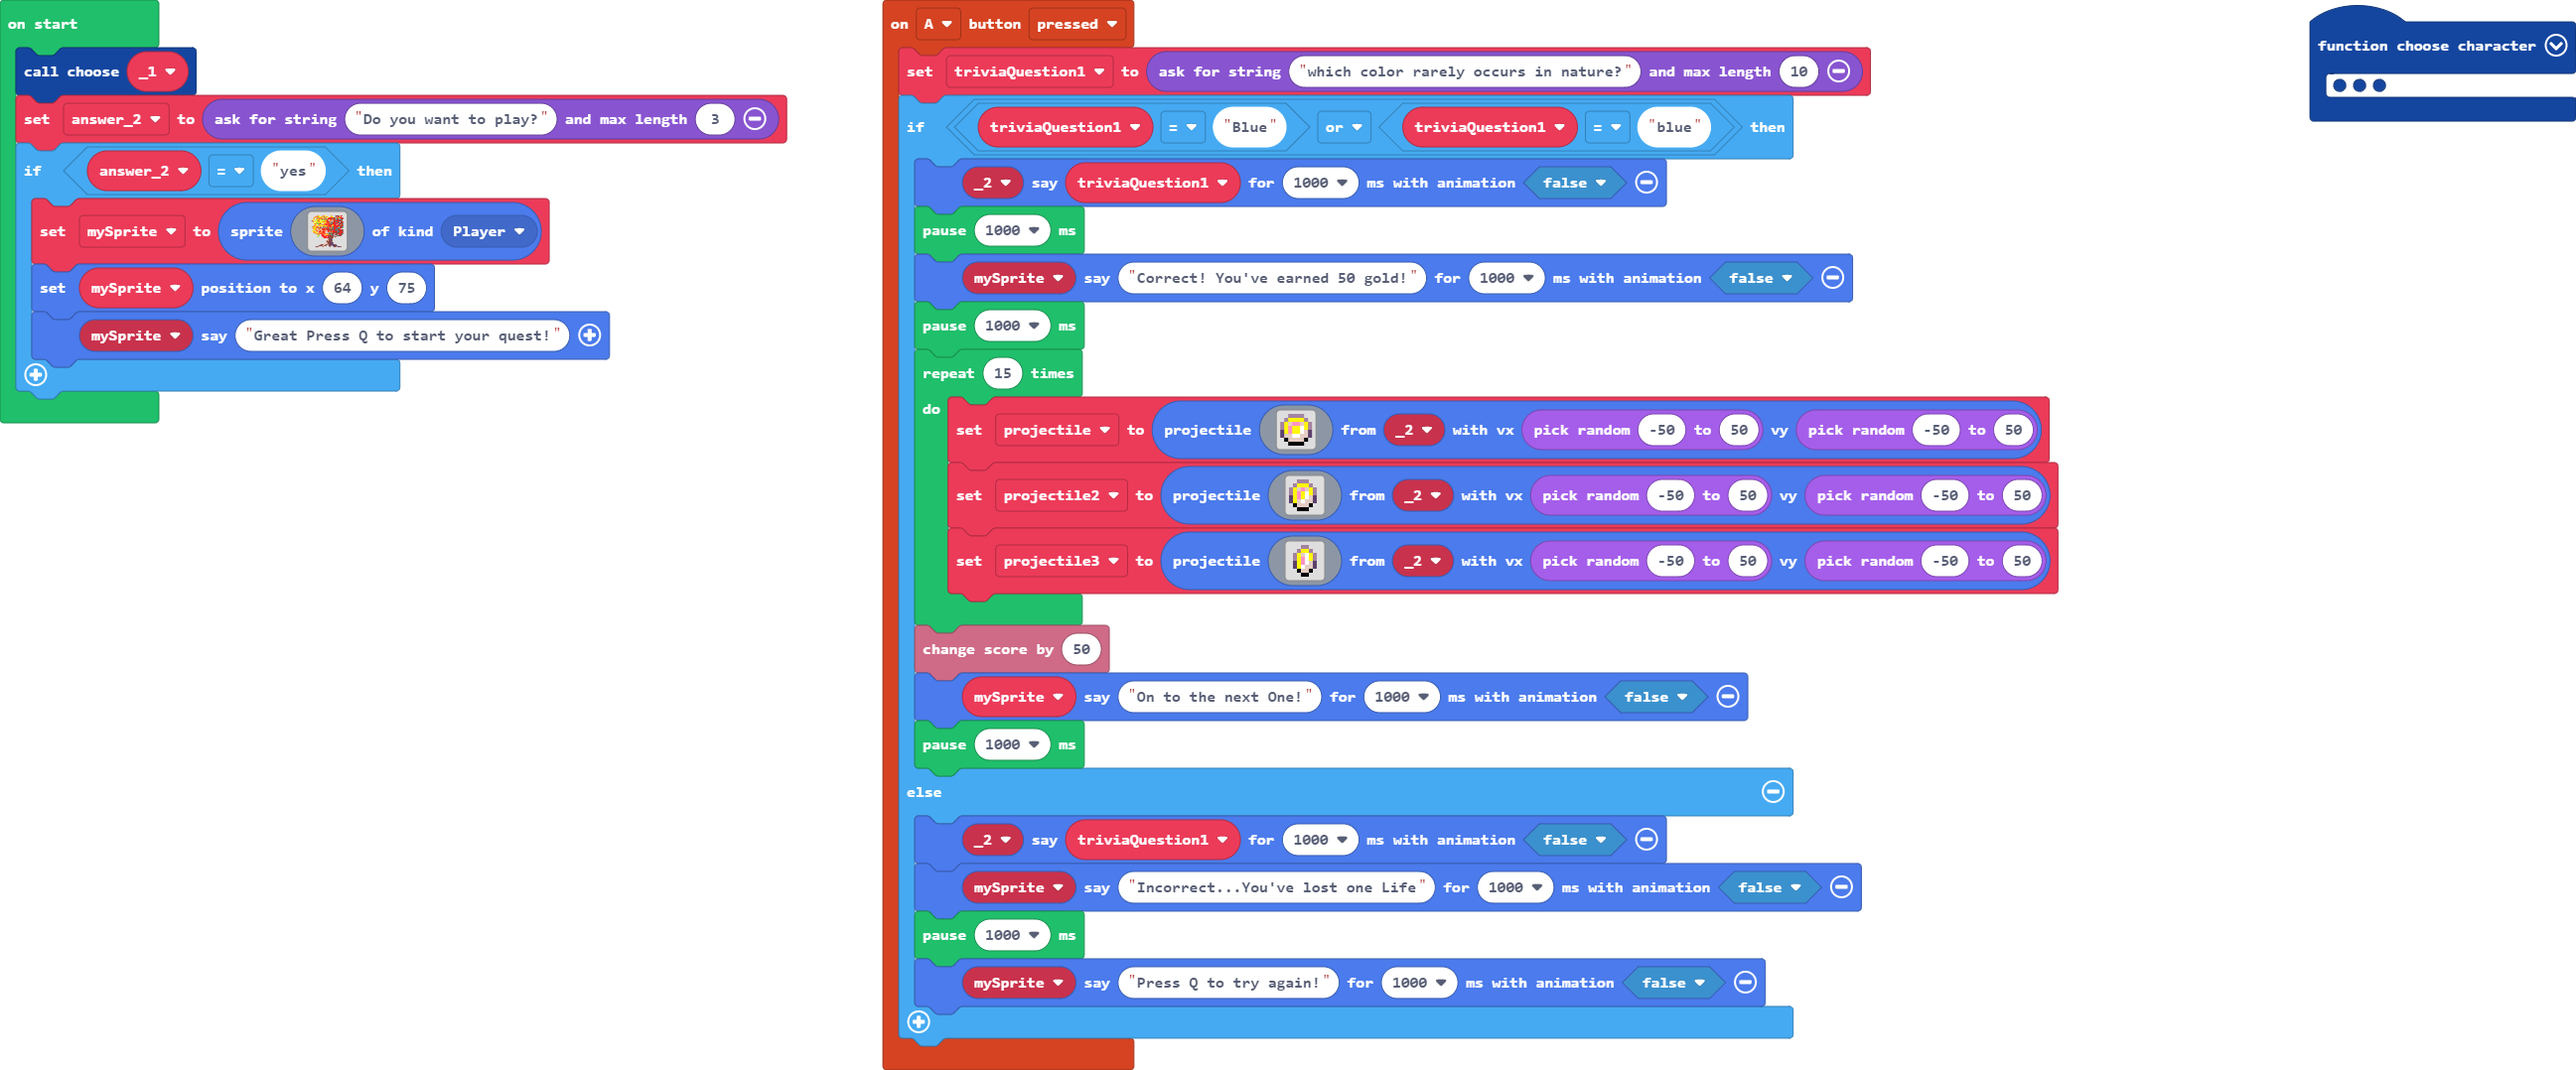
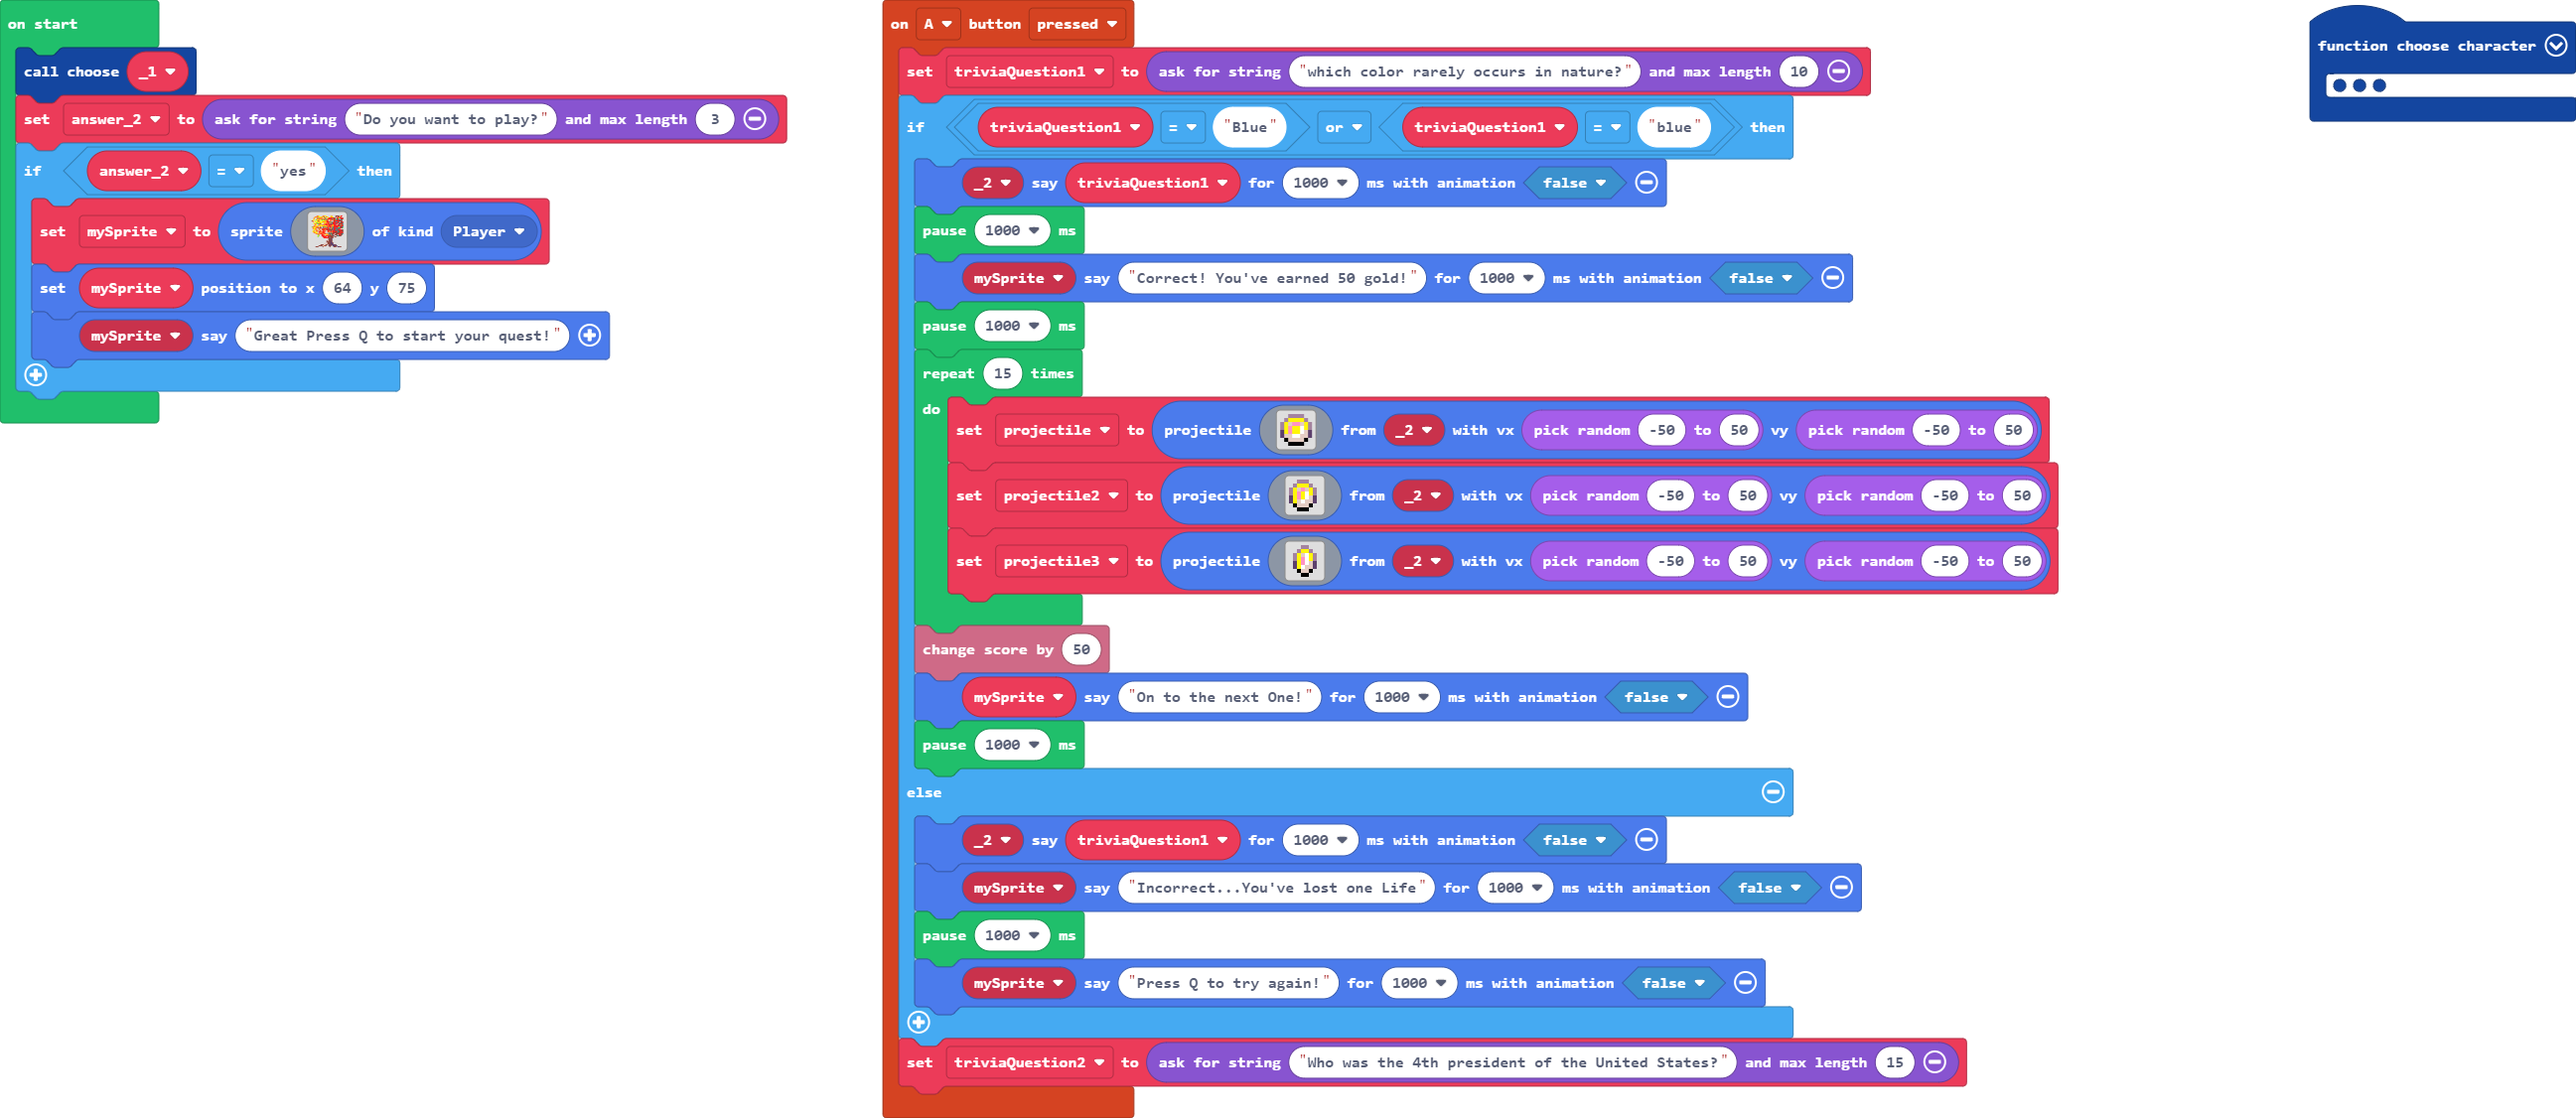
Update main.blocks, main.ts

diff --git a/main.ts b/main.ts
@@ -338,7 +338,9 @@ controller.A.onEvent(ControllerButtonEvent.Pressed, function () {
         pause(1000)
         mySprite.sayText("Press Q to try again!", 1000, false)
     }
+    triviaQuestion2 = game.askForString("Who was the 4th president of the United States?", 15)
 })
+let triviaQuestion2 = ""
 let projectile3: Sprite = null
 let projectile2: Sprite = null
 let projectile: Sprite = null
